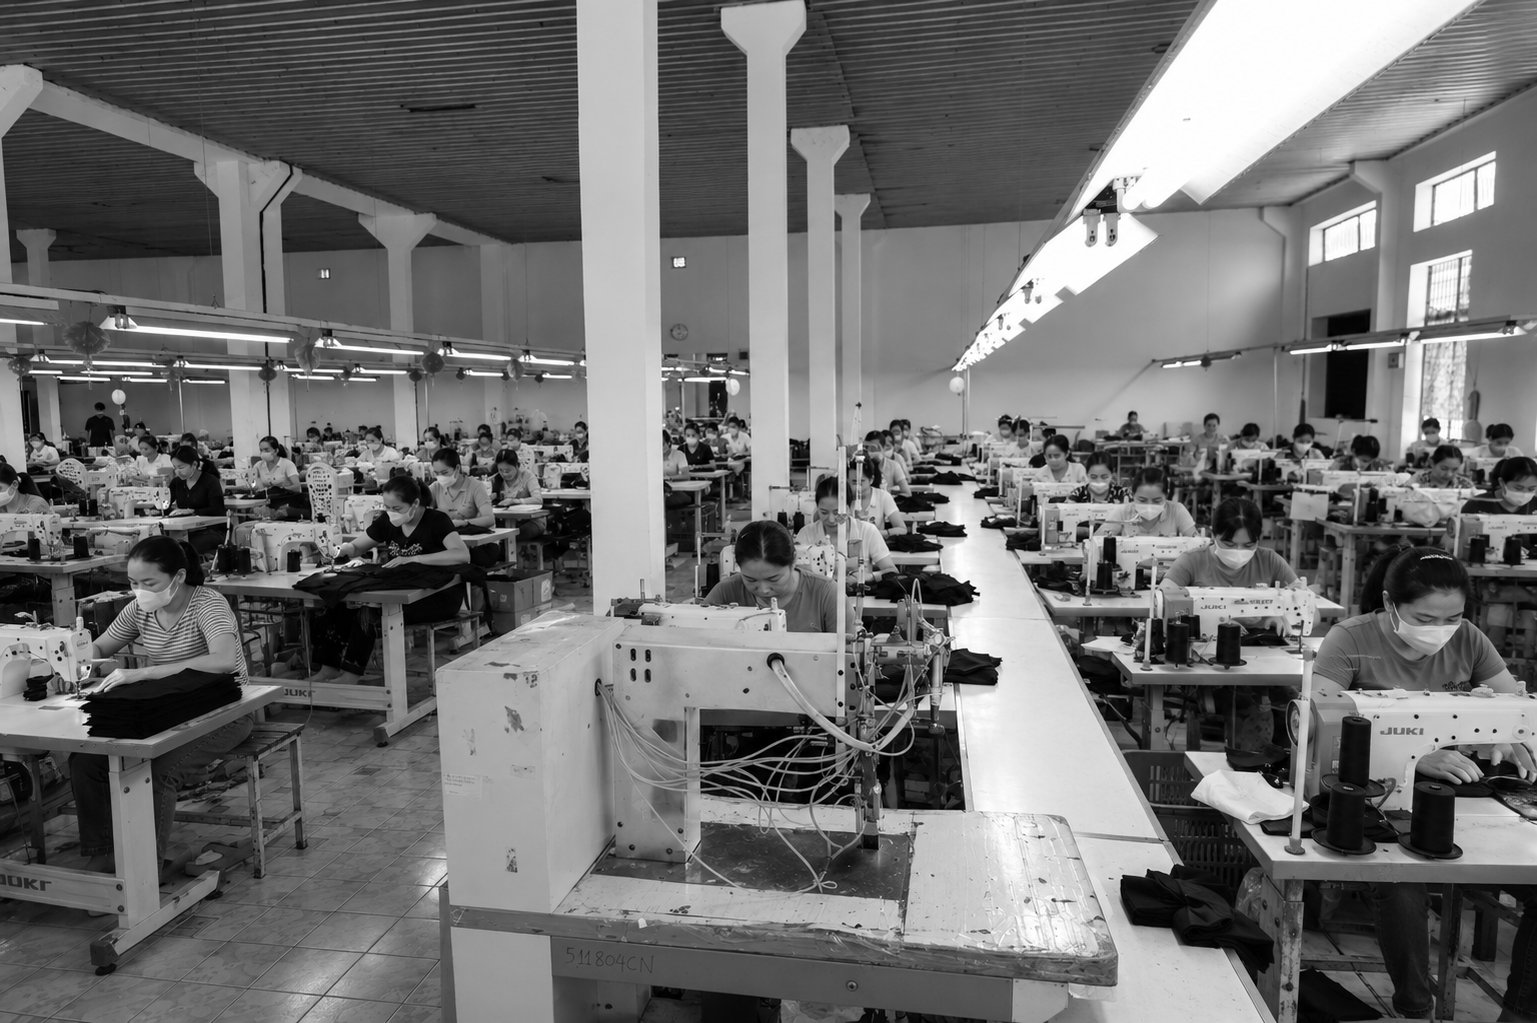
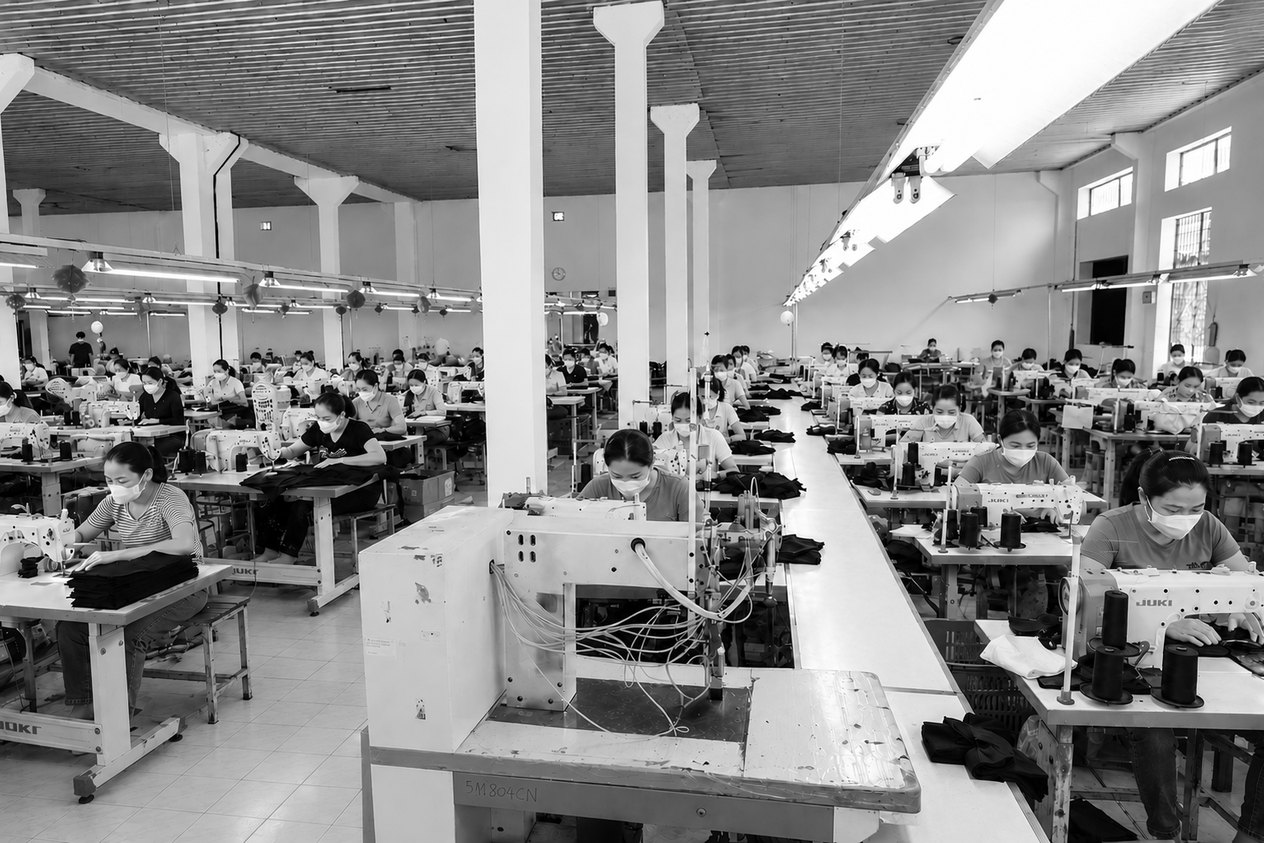
Bên trong nhà xưởng: đổi ảnh Nhà xưởng sản xuất (11_19_21, đen trắng)

diff --git a/public/profile.html b/public/profile.html
@@ -99,7 +99,7 @@
           <h2 data-en="Inside our facility">Bên trong nhà xưởng</h2>
         </div>
         <div class="cert-gallery cert-gallery--facility" data-reveal>
-          <figure class="cert-thumb"><img src="assets/img/gallery/g11.jpg?v=2" alt="Nhà xưởng sản xuất May Đông Thành" loading="lazy"><figcaption data-en="Production floor">Nhà xưởng sản xuất</figcaption></figure>
+          <figure class="cert-thumb"><img src="assets/img/gallery/g11.jpg?v=3" alt="Nhà xưởng sản xuất May Đông Thành" loading="lazy"><figcaption data-en="Production floor">Nhà xưởng sản xuất</figcaption></figure>
           <figure class="cert-thumb"><img src="assets/img/gallery/g9.jpg" alt="Nguyên liệu vải tại May Đông Thành" loading="lazy"><figcaption data-en="Fabric material">Nguyên liệu vải</figcaption></figure>
           <figure class="cert-thumb"><img src="assets/img/gallery/g3b.jpg?v=2" alt="Trải và cắt vải tại May Đông Thành" loading="lazy"><figcaption data-en="Cutting">Trải &amp; cắt vải</figcaption></figure>
           <figure class="cert-thumb"><img src="assets/img/gallery/g10.jpg" alt="Bó bán thành phẩm tại May Đông Thành" loading="lazy"><figcaption data-en="Bundled cut parts">Bó bán thành phẩm</figcaption></figure>
